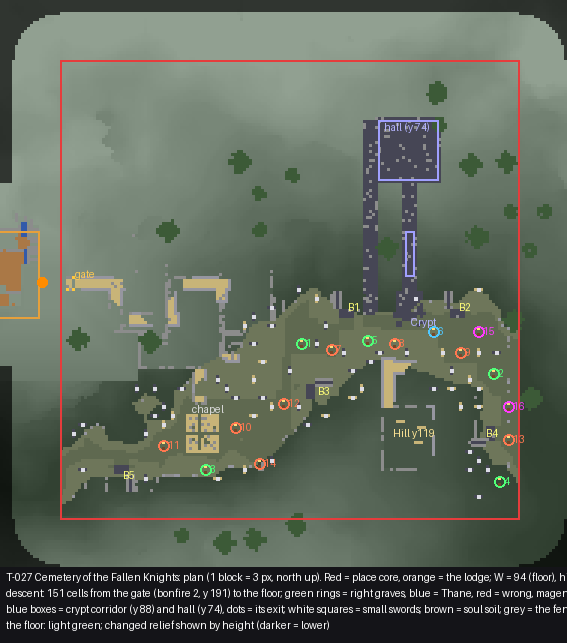
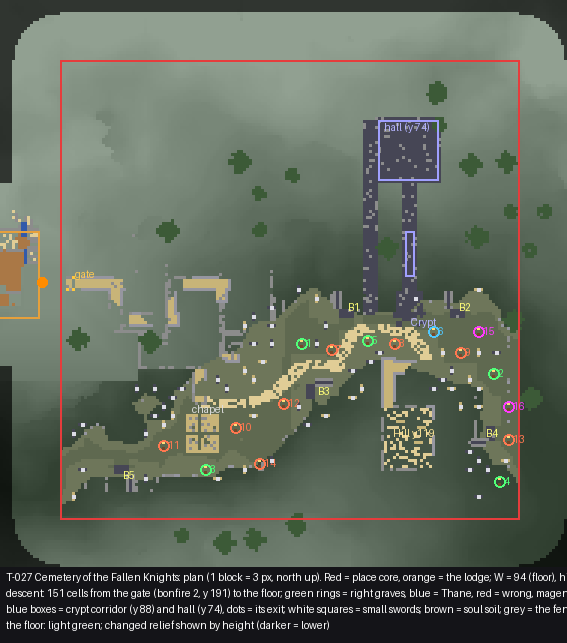
T-027 (промежуточно): тропы по дну, маршруты бота, дорога Сторожки через край площадки костра

Changed region(s): [[0.3598, 0.4977, 0.7795, 0.6532], [0.6596, 0.6221, 0.7795, 0.7465], [0.0, 0.3733, 0.03, 0.4044]]

diff --git a/tools/build/r1_cemetery.py b/tools/build/r1_cemetery.py
@@ -166,8 +166,9 @@ def lodge_relief(gr, rl):
         w = 196 if z <= 431 else (195 if z <= 434 else (193 if z <= 437 else 191))
         for x in STREAM: stream[(x, z)] = w; T[ix(gr, x, z)] = w - 1
     # the road: from the approach of T-022 at (108, 425) round to x 114 and down to the pad at z 442; levels in half blocks
-    pts = [(108, 425), (109, 426), (110, 427), (111, 427), (112, 427), (113, 427), (114, 428), (115, 429)] + [(115, z) for z in range(430, 442)]
-    y0 = int(gr["live"][ix(gr, 108, 425)]) if "live" in gr else int(gr["before"][ix(gr, 108, 425)]); y_end = P.PAD_Y   # the trail as it is in the world
+    pts = [(108, 425), (109, 426), (110, 427), (111, 427), (112, 427), (113, 427), (114, 428), (115, 429)] + [(115, z) for z in range(430, 443)]
+    y0 = int(gr["live"][ix(gr, 108, 425)]) if "live" in gr else int(gr["before"][ix(gr, 108, 425)])   # the trail as it is in the world
+    y_end = P.PAD_Y                                         # the road runs over the pad's north rim (z 442) down to the pad itself
     n = len(pts); s0 = 2 * y0 + 2; s1 = 2 * y_end + 2          # feet levels x2
     # the bridge at z 434..435 must be level with the terrace (feet 197 -> s 394)
     kb = pts.index((115, BRIDGE_Z[0]))
@@ -190,7 +191,77 @@ def lodge_relief(gr, rl):
             road[q] = s2
             if lower: up[q] = f
             T[ix(gr, *q)] = (s2 - 1) // 2 if s2 % 2 else s2 // 2 - 1
+    # the curb between the stream and the road (x 113): the road's level (no natural bank left over it), the bridge's deck at the bridge
+    for z in range(429, 442):
+        q = (113, z)
+        if q in road: continue
+        r = road.get((114, z))
+        T[ix(gr, *q)] = TER_Y if BRIDGE_Z[0] <= z <= BRIDGE_Z[1] else (((r - 1) // 2 if r % 2 else r // 2 - 1) if r else stream[(112, z)])
     return dict(stream=stream, road_list=list(road.items()), roadset=set(road), road_up=up)
+
+# ---------------------------------------------------------------- the trails over the floor (gravel, half blocks: the walk without jumps)
+def trails(gr, rl, brs, paths, W):
+    """graded trails (3 wide, at most half a block per step) over the natural floor: the foot of the descent -> the crypt's door; the
+    crypt -> the foot of the hill stair. A* on the ground (steepness cost), round the graves, the barrows, the chapel, the hill"""
+    from r1_garden import astar, smooth_line, cells_of
+    T = rl["T"]; X, Z = gr["X"], gr["Z"]
+    block = ~(rl["floor"] | rl["holes"]) | ~gr["cem"]
+    def box(x1, z1, x2, z2):
+        nonlocal block
+        block = block | ((X >= x1) & (X <= x2) & (Z >= z1) & (Z <= z2))
+    for (n, x, z, kind, ep) in P.GRAVES: box(x - 2, z - 3, x + 2, z + 4)
+    for br in brs:
+        xs = [c[0] for c in br["cells"]]; zs = [c[1] for c in br["cells"]]; box(min(xs) - 1, min(zs) - 1, max(xs) + 1, max(zs) + 1)
+        (fx, fz), f = br["front"], br["facing"]; dx, dz = DIRS[f]
+        box(min(fx, fx + dx * 4) - 2, min(fz, fz + dz * 4) - 2, max(fx, fx + dx * 4) + 2, max(fz, fz + dz * 4) + 2)
+    x1, z1, x2, z2 = P.CHAPEL; box(x1 - 2, z1 - 2, x2 + 2, z2 + 2)
+    box(P.HILL[0] - 2, P.HILL[1] - 2, P.HILL[2] + 2, P.HILL[3] + 2)
+    for (x, z) in list(rl["walk"]) + list(rl["ring"]): block[ix(gr, x, z)] = True
+    box(P.CRYPT_X - 8, P.CRYPT_FRONT - 20, P.CRYPT_X + 8, P.CRYPT_FRONT)
+    for k in range(-1, 2):                                  # the skulls stand in front of the facade
+        box(P.CRYPT_X - 6, P.CRYPT_FRONT + 1, P.CRYPT_X - 2, P.CRYPT_FRONT + 5); box(P.CRYPT_X + 2, P.CRYPT_FRONT + 1, P.CRYPT_X + 6, P.CRYPT_FRONT + 5)
+    d = paths["desc"][-1]; dx, dz = DIRS[d[3]]
+    a0 = (d[0] + dx, d[1] + dz); ya = d[2]                 # the cell after the closing landing of the descent, its level
+    h = paths["hill"][-1]; hx, hz = DIRS[h[3]]
+    b0 = (h[0] + hx, h[1] + hz); yb = h[2]
+    cf = (P.CRYPT_X, P.CRYPT_FRONT + 6); yc = W
+    out = {}; lines = []
+    for (s, ys), (e, ye) in (((a0, ya), (cf, yc)), ((cf, yc), (b0, yb))):
+        for c in (s, e):
+            for a_ in (-1, 0, 1):
+                for b_ in (-1, 0, 1): block[ix(gr, c[0] + a_, c[1] + b_)] = False
+        path = astar(T.astype(float), s, e, block, gr["x1"], gr["z1"])
+        cells = cells_of(smooth_line(path, 4))
+        if cells[0] != s: cells = [s] + cells
+        if cells[-1] != e: cells.append(e)
+        t = [2 * (int(T[ix(gr, x, z)]) + 1) for x, z in cells]
+        t[0] = 2 * (ys + 1); t[-1] = 2 * (ye + 1); fixed = {0, len(t) - 1}
+        for _ in range(12):
+            for i in range(1, len(t)):
+                if i not in fixed: t[i] = max(min(t[i], t[i - 1] + 1), t[i - 1] - 1)
+            for i in range(len(t) - 2, -1, -1):
+                if i not in fixed: t[i] = max(min(t[i], t[i + 1] + 1), t[i + 1] - 1)
+        bad = [cells[i] for i in range(1, len(t)) if abs(t[i] - t[i - 1]) > 1]
+        if bad: raise SystemExit("cemetery trail cannot be graded at %s" % bad[:4])
+        lines.append([[c[0], c[1], s2] for c, s2 in zip(cells, t)])
+        for c, s2 in zip(cells, t):
+            for a_ in (-1, 0, 1):
+                for b_ in (-1, 0, 1):
+                    q = (c[0] + a_, c[1] + b_)
+                    if q in rl["walk"] or q in rl["ring"]: continue
+                    dd = a_ * a_ + b_ * b_
+                    if q not in out or dd < out[q][1]: out[q] = (s2, dd)
+    surf = {q: v[0] for q, v in out.items()}
+    for _ in range(60):                                      # across the width at most half a block
+        ch = False
+        for (x, z), s2 in list(surf.items()):
+            n = [surf[q] for q in ((x + 1, z), (x - 1, z), (x, z + 1), (x, z - 1)) if q in surf]
+            if s2 > min(n) + 1: surf[(x, z)] = min(n) + 1; ch = True
+            elif s2 < max(n) - 1: surf[(x, z)] = max(n) - 1; ch = True
+        if not ch: break
+    for (x, z), s2 in surf.items():
+        T[ix(gr, x, z)] = (s2 - 1) // 2 if s2 % 2 else s2 // 2 - 1
+    return dict(surf=surf, lines=lines)
 
 # ---------------------------------------------------------------- trees (our own repeatable models instead of the spruces)
 def dark_oak(b, c, x, z, salt):
@@ -226,10 +297,18 @@ def build(gr, W, paths):
     E = crypt_relief(gr, rl, W)
     chy = chapel_relief(gr, rl)
     gvs = grave_relief(gr, rl)
+    tr = trails(gr, rl, brs, paths, W)
     lr = lodge_relief(gr, rl)
     c = CB.Ctx(gr, rl, W); b = B("cemetery")
     meta = dict(W=W)
     CB.walks(b, c)
+    for (x, z), s2 in tr["surf"].items():
+        if s2 % 2:
+            y = (s2 - 1) // 2; b.set(x, y - 1, z, "minecraft:dirt"); b.set(x, y, z, CB.slab("tuff_slab" if hsh(x, 0, z, 7130) < 0.5 else "andesite_slab"))
+        else:
+            y = s2 // 2 - 1; b.set(x, y, z, CB.PATHG.at(x, y, z)); b.set(x, y - 1, z, "minecraft:dirt")
+        CB.clear(b, x, y + 1, z, y + 4)
+    meta["trails"] = tr["lines"]
     meta["gate"] = CB.gate(b, c)
     meta["lights"] = CB.lights(b, c, paths["desc"])
     L = paths["hill_level"]
@@ -254,7 +333,7 @@ def build(gr, W, paths):
     # the lodge
     meta["lodge"] = CL.build(b, c, sys.modules[__name__], lr)
     # what must stay free of the swords, the old graves and the fence
-    taken = set(rl["walk"]) | set(rl["ring"])
+    taken = set(rl["walk"]) | set(rl["ring"]) | {(x + a, z + d) for (x, z) in tr["surf"] for a in (-1, 0, 1) for d in (-1, 0, 1)}
     for gv in meta["graves"]:
         for a in (-2, -1, 0, 1, 2):
             for d in range(-3, 5): taken.add((gv["x"] + a, gv["z"] + d))
@@ -417,6 +496,7 @@ def plan_png(gr, rl, b, meta, path, box, S, title):
                 if "spruce" in s or "planks" in s or "door" in s: col = (170, 120, 70)
                 if "cobblestone" in s and "wall" not in s: col = (140, 140, 140)
                 if "lantern" in s: col = (255, 200, 60)
+                if s in ("minecraft:gravel", "minecraft:tuff_slab", "minecraft:andesite_slab"): col = (225, 205, 150)
             if not gr["place"][i, j]: col = tuple(v // 3 for v in col)
             d.rectangle([(x - x1) * S, (z - z1) * S, (x - x1) * S + S - 1, (z - z1) * S + S - 1], fill=col)
     def lab(x, z, t, c=(255, 255, 255)): d.text(((x - x1) * S + 3, (z - z1) * S - 5), t, fill=c)
@@ -484,7 +564,7 @@ def main(plan_only=False):
     os.makedirs(os.path.join(ROOT, "docs/reports/T-027"), exist_ok=True)
     t1 = ["T-027 Cemetery of the Fallen Knights: plan (1 block = 3 px, north up). Red = place core, orange = the lodge; W = %d (floor), hill platform y %d" % (W, paths["hill_level"]),
           "descent: %d cells from the gate (bonfire 2, y %d) to the floor; green rings = right graves, blue = Thane, red = wrong, magenta = pits; B1..B5 barrows," % (len(paths["desc"]), P.PAD_Y),
-          "blue boxes = crypt corridor (y %d) and hall (y %d), dots = its exit; white squares = small swords; brown = soul soil; grey = the fence" % (meta["crypt"]["C"], meta["crypt"]["HF"]),
+          "blue boxes = crypt corridor (y %d) and hall (y %d), dots = its exit; white squares = small swords; brown = soul soil; grey = the fence; sand = the trails" % (meta["crypt"]["C"], meta["crypt"]["HF"]),
           "the floor: light green; changed relief shown by height (darker = lower)"]
     plan_png(gr, rl, b, meta, os.path.join(ROOT, "docs/reports/T-027/cemetery_plan.png"), (P.CEM[0] - 20, P.CEM[1] - 20, P.CEM[2] + 16, P.CEM[3] + 16), 3, t1)
     t2 = ["T-027 Keeper's Lodge: plan (1 block = 8 px, north up). Orange = the place core; terrace y %d (bonfire 192 + 4), retaining walls <= 10;" % TER_Y,

diff --git a/tools/build/cemetery_routes.py b/tools/build/cemetery_routes.py
@@ -1,0 +1,69 @@
+#!/usr/bin/env python3
+"""T-027: walk-bot routes of the Cemetery and the Lodge -> server/build/walk/c_*.json (tools/walkbot.py, no jumps), from
+server/build/r1/cemetery.json:
+  c_lodge     the pad of bonfire 2 -> the road -> the footbridge -> the yard -> the lodge door
+  c_lodge_b   the lodge door -> back to the pad
+  c_down      the pad -> the gate -> the descent -> the trail -> the crypt door -> the trail -> the hill stair -> the top of the hill
+  c_up        the top of the hill -> the hill stair -> the trails -> the descent -> the gate -> the pad
+  c_crypt     the crypt (door open, the Magister laid to rest): the vestibule -> the stair -> the trap corridor -> the stair -> the hall ->
+              the exit (bars open) -> its passage up -> out at the foot of the slope
+  c_barrow_N  barrow N: in front -> the dromos -> the chamber -> the stair up -> out over the top of the mound -> down beside it
+Points: centres of the cells of the ways the generator laid, with the feet level, reduced to the turns."""
+import json, math, os, sys
+ROOT = os.path.dirname(os.path.dirname(os.path.dirname(os.path.abspath(__file__))))
+sys.path.insert(0, os.path.dirname(os.path.abspath(__file__)))
+import cemetery_plan as P
+OUT = os.path.join(ROOT, "server/build/walk"); os.makedirs(OUT, exist_ok=True)
+M = json.load(open(os.path.join(ROOT, "server/build/r1/cemetery.json")))
+W = M["W"]; CR = M["crypt"]; LO = M["lodge"]; L = M["hill_level"]
+def simplify(pts):
+    if len(pts) <= 2: return pts
+    out = [pts[0]]
+    for a, b, c in zip(pts, pts[1:], pts[2:]):
+        d1 = (round(b[0] - a[0], 3), round(b[1] - a[1], 3)); d2 = (round(c[0] - b[0], 3), round(c[1] - b[1], 3))
+        if d1 != d2: out.append(b)
+    out.append(pts[-1]); return out
+def flight(cells):
+    """descent / hill cells [x, z, y, dir, kind] -> points [x+.5, z+.5, feet]"""
+    return [[c[0] + 0.5, c[1] + 0.5, c[2] + 1.0] for c in cells]
+pad = [118.5, 446.5, float(P.PAD_Y + 1)]
+desc = simplify(flight(M["desc"]))
+t1 = simplify([[c[0] + 0.5, c[1] + 0.5, c[2] / 2.0] for c in M["trails"][0]])
+t2 = simplify([[c[0] + 0.5, c[1] + 0.5, c[2] / 2.0] for c in M["trails"][1]])
+hill = simplify(flight(M["hill"]))
+top = [(P.HILL[0] + P.HILL[2]) / 2 + 0.5, (P.HILL[1] + P.HILL[3]) / 2 - 2.5, L + 1.0]
+door = CR["door"]
+door_front = [door[0] + 0.5, door[2] + 2.5, W + 1.0]
+down = [[124.5, 448.5, pad[2]]] + desc + t1 + [door_front] + t2 + hill[::-1] + [top]
+up = [top] + hill + t2[::-1] + [door_front] + t1[::-1] + desc[::-1] + [pad]
+# the lodge: the road from the pad north to the bridge, west over it, the yard, the door front
+import r1_cemetery as RC
+dz = LO["door"]
+lodge = [pad, [115.5, 443.5, pad[2]], [115.5, RC.BRIDGE_Z[0] + 0.5, RC.TER_Y + 1.0], [109.5, RC.BRIDGE_Z[0] + 0.5, RC.TER_Y + 1.0],
+         [dz[0] + 0.5, RC.BRIDGE_Z[0] + 0.5, RC.TER_Y + 1.0], [dz[0] + 0.5, dz[2] - 0.6, RC.TER_Y + 1.0]]
+# the crypt: the vestibule, stair 1 (6 stairs E..E-5), the corridor (C), stair 2 (7, landing, 7), the hall (HF), the exit bars in the
+# west wall, the passage up (the generator's exit path) to the foot of the slope
+E = CR["E"]; C = CR["C"]; HF = CR["HF"]; cx = door[0] + 0.5; ZF = door[2]
+hx1, _, hz1, hx2, _, hz2 = CR["hall"]; zc1, zc2 = CR["corridor"][2], CR["corridor"][5]
+bz = CR["bars"][len(CR["bars"]) // 2][2]
+crypt = [door_front, [cx, ZF - 1.5, E + 1.0], [cx, ZF - 6.5, E + 1.0], [cx, ZF - 12 + 0.5, E - 4.0], [cx, zc2 + 0.5, C + 1.0], [cx, zc1 + 0.5, C + 1.0],
+         [cx, zc1 - 0.5, C + 1.0], [cx, zc1 - 6.5, C - 5.0], [cx, zc1 - 8.5, C - 6.0], [cx, zc1 - 10.5, C - 6.0], [cx, zc1 - 16.5, C - 12.0],
+         [cx, hz2 + 0.5, HF + 1.0], [hx1 + 2.5, hz2 - 1.5, HF + 1.0], [hx1 + 2.5, bz + 0.5, HF + 1.0], [hx1 - 2.5, bz + 0.5, HF + 1.0]]
+ep = CR["exit_path"]
+crypt += simplify([[p[0] + 0.5, p[1] + 0.5, p[2] + 1.0] for p in ep]) + [[ep[-1][0] + 0.5, ep[-1][1] + 3.5, W + 1.0]]
+routes = {"c_lodge": lodge, "c_lodge_b": lodge[::-1], "c_down": down, "c_up": up, "c_crypt": crypt}
+# the barrows
+for br in M["barrows"]:
+    b = next(x for x in P.BARROWS if x[0] == br["id"])
+    L2G = {v: k for k, v in P.barrow_cells(b).items()}
+    def g(lx, lz): x, z = L2G[(lx, lz)]; return [x + 0.5, z + 0.5]
+    Eb = br["E"]; (fx, fz), f = br["front"], br["facing"]; dx, dz = P.DIRS[f]
+    out_side = [L2G[(0, 8)][0] - (dz * 3 if f in ("S", "N") else 0) * (1 if f == "S" else -1) + 0.5, L2G[(0, 8)][1] + 0.5]
+    lx0 = L2G[(0, 8)]; side = (lx0[0] - L2G[(1, 8)][0], lx0[1] - L2G[(1, 8)][1])      # the direction to the left wall, outward
+    off = [lx0[0] + side[0] * 4 + 0.5, lx0[1] + side[1] * 4 + 0.5]
+    routes["c_barrow_%d" % br["id"]] = [[fx + dx * 2 + 0.5, fz + dz * 2 + 0.5, Eb + 1.0], g(4, 11) + [Eb + 1.0], g(4, 8) + [Eb + 1.0], g(4, 4) + [Eb + 1.0],
+                                        g(2, 1) + [Eb + 1.0], g(1, 1) + [Eb + 1.0], g(1, 7) + [Eb + 7.0], g(1, 8) + [Eb + 7.0], g(0, 8) + [Eb + 7.0], off + [Eb + 3.0]]
+for n, pts in routes.items():
+    s = pts[0]
+    json.dump(dict(start=[s[0], s[2], s[1]], points=[[p[0], p[1], p[2]] for p in pts[1:]]), open(os.path.join(OUT, n + ".json"), "w"))
+    print(n, len(pts), "points")

diff --git a/tools/test_cemetery.py b/tools/test_cemetery.py
@@ -514,7 +514,46 @@ def t_zones():
     R("kill @e[tag=le.ctest]"); R("difficulty easy"); R("time set noon"); R("clear Cam"); unstage()
 
 # ---------------------------------------------------------------- restart
-def tmz(): return load("test_maze")
+# the restart and the profiler (copied from tools/test_maze.py: importing it runs its suites)
+def restart():
+    subprocess.run([os.path.join(ROOT, "tools/server.sh"), "stop"], capture_output=True); time.sleep(8)
+    subprocess.Popen(f"cd {ROOT} && tools/server.sh start > server/console.out 2>&1", shell=True)
+    for _ in range(90):
+        time.sleep(2)
+        try:
+            if "players online" in R("list"): break
+        except Exception: pass
+    subprocess.run("pkill -f net.minecraft.client.main.Main", shell=True); time.sleep(3)
+    subprocess.Popen(f"cd {ROOT} && python3 -I tools/client_launch.py > server/client.out 2>&1", shell=True)
+    subprocess.Popen(f"cd {ROOT} && python3 -I tools/client_launch.py --name Cam2 --dir server/client2 --mem 1500M --size 640x360 > server/client2.out 2>&1", shell=True)
+    for _ in range(90):
+        time.sleep(2)
+        try:
+            l = R("list")
+            if "Cam2" in l and re.search(r"\bCam(?!2)\b", l): break
+        except Exception: pass
+    time.sleep(6)
+def mspt():
+    m = re.search(r"([0-9.]+)\s*ms", R("tick query")); return float(m.group(1)) if m else None
+def prof(sec=10, during=None):
+    """the profiler for sec seconds: ms per tick of the last_ember functions run from the schedule (as test_contracts.prof)"""
+    import glob, zipfile, threading
+    before = set(glob.glob(os.path.join(ROOT, "server/debug/profiling/*.zip"))); R("perf start")
+    if during: during()
+    time.sleep(sec + 1); R("perf stop"); new = []
+    for _ in range(40):
+        new = sorted(set(glob.glob(os.path.join(ROOT, "server/debug/profiling/*.zip"))) - before)
+        if new: break
+        time.sleep(0.5)
+    if not new: return {}
+    time.sleep(1.0); t = zipfile.ZipFile(new[-1]).read("server/profiling.txt").decode()
+    span = float(re.search(r"Time span: (\d+) ms", t).group(1)); ticks = float(re.search(r"Tick span: (\d+) ticks", t).group(1))
+    out = {"tick": span / ticks}
+    for m in re.finditer(r"\[05\][ |]*function (last_ember:[a-z_/]+)\(\d+/\d+\) - [0-9.]+%/([0-9.]+)%", t): out[m.group(1)] = span * float(m.group(2)) / 100 / ticks
+    return out
+class _TM: pass
+def tmz():
+    m = _TM(); m.restart = restart; m.prof = prof; m.mspt = mspt; return m
 def t_restart():
     print("[restart]"); stage(); reset_all()
     open_lid(1); open_lid(7); time.sleep(2.5); clear_spirits()

diff --git a/tools/build/cemetery_plan.py b/tools/build/cemetery_plan.py
@@ -19,7 +19,7 @@ LODGE = (84, 431, 116, 459)                # the core of the place `lodge` (rect
 MARGIN = 16
 BOX = (58, 348, 302, 552)                  # the grids (both places with their seam + 10)
 HEARTH2 = (118, 192, 448)
-PAD = (111, 442, 125, 456)                 # the pad of bonfire 2 (T-022): never written
+PAD = (111, 443, 125, 456)                 # the flat pad of bonfire 2 (T-022, 14 x 14 at y 191): never written (its rims are)
 PAD_Y = 191
 FLOOR_BOX = (160, 452, 276, 500)           # HQ T-027, 1: W = 30th percentile of the natural ground here
 PATHS = os.path.join(ROOT, "tools/build/cemetery_paths.json")
